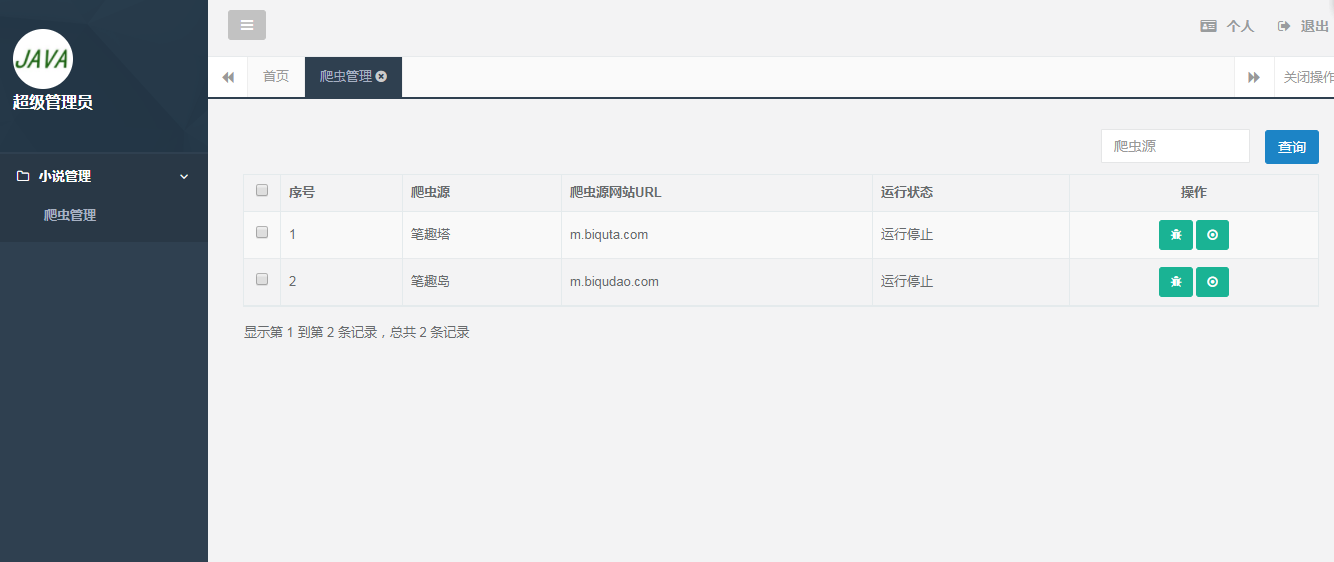
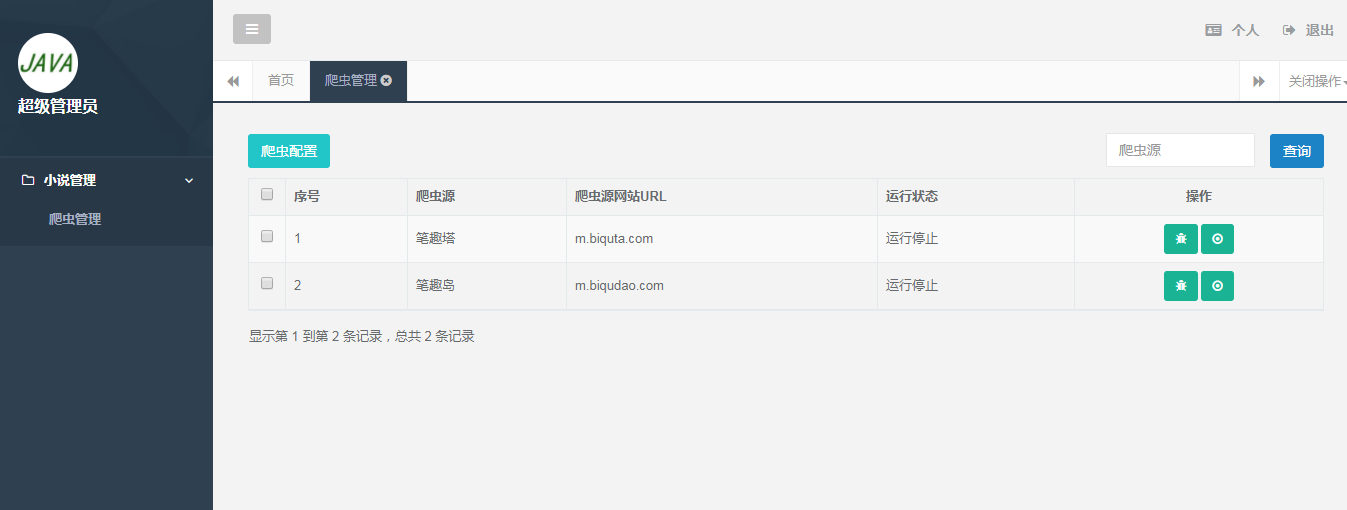
修复爬虫运行停止后有时打不开的bug

diff --git a/novel-admin/src/main/java/com/java2nb/books/service/impl/BookCrawlServiceImpl.java b/novel-admin/src/main/java/com/java2nb/books/service/impl/BookCrawlServiceImpl.java
@@ -100,6 +100,16 @@ public class BookCrawlServiceImpl implements BookCrawlService {
                 }
             }
         } else {
+            switch (bookCrawl.getCrawlWebCode()) {
+                case 1: {
+                    isInteruptBiquDaoCrawl = false;
+                    break;
+                }
+                case 2: {
+                    isInteruptBiquTaCrawl = false;
+                    break;
+                }
+            }
             crawlBook(bookCrawl);
         }
 

diff --git a/README.md b/README.md
@@ -56,7 +56,13 @@ novel-admin ：平台后台管理系统源码
 
    ![](./assets/crawl_pic.png)
 
-   3.其他功能开发中。。。
+   3.爬虫配置界面。
+
+   ![](./assets/crawl_config.png)
+
+   4.其他功能开发中。。。
+
+   
 
 #### 微信小程序截图
 
@@ -133,7 +139,11 @@ novel-admin ：平台后台管理系统源码
 
 ![1573589880588](./assets/springcloud.jpg)
 
-后续系统功能会越来越多，结构会越来越复杂，所以将考虑出完整图文和视频教程，请大家持续关注。喜欢此项目的可以给我的GitHub和Gitee加个Star支持一下 。
+后续系统功能会越来越多，结构会越来越复杂，所以将考虑出完整图文和视频教程，请大家持续关注。喜欢此项目的可以给我的GitHub和Gitee加个Star支持一下 。**如果你觉得此项目还不错，请给我投上宝贵的一票，谢谢！**
+
+**开源中国投票通道**：https://www.oschina.net/p/fiction_house
+
+![1573589880588](./assets/oschina_tp.png)
 
 ##### 演示地址1
 
